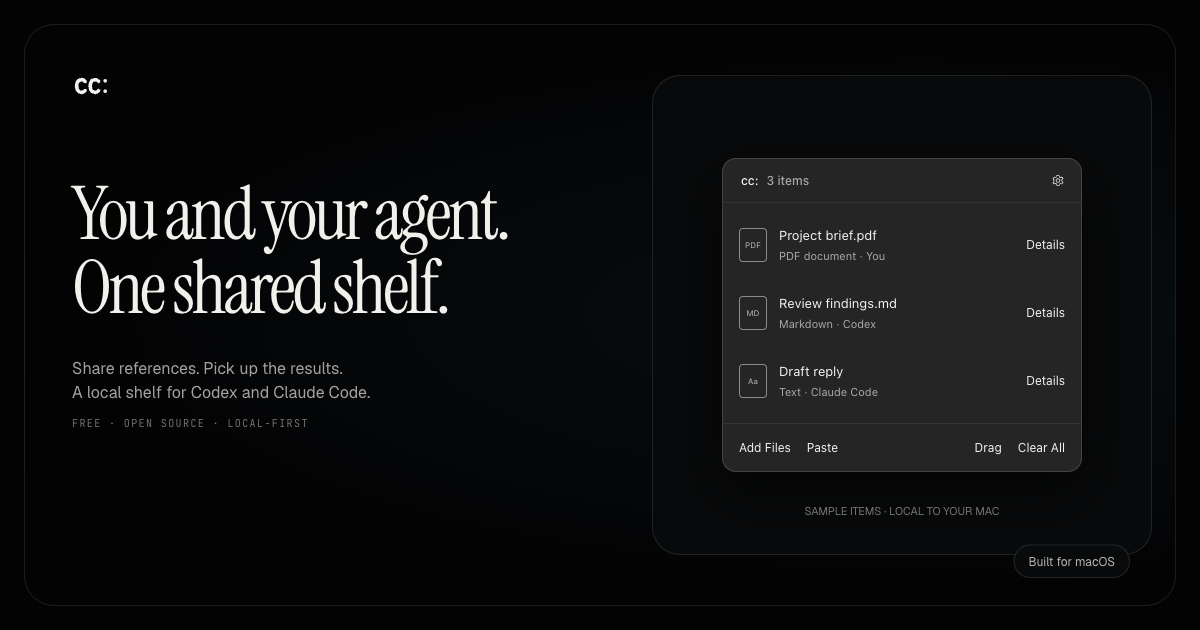
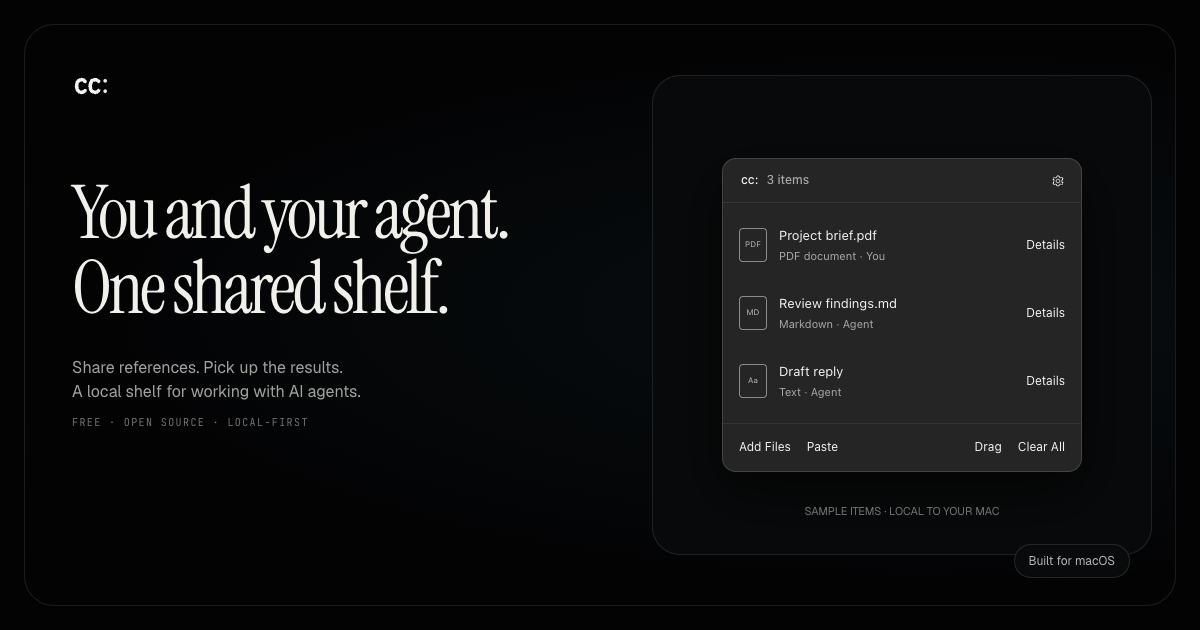
Keep social preview independent of agent names

diff --git a/site/media/cc-og.html b/site/media/cc-og.html
@@ -124,15 +124,15 @@
     <main class="frame">
       <div class="brand"><img src="../public/cc/cc-mark.svg" alt="cc:"></div>
       <h1>You and your agent.<br>One shared shelf.</h1>
-      <p class="description">Share references. Pick up the results.<br>A local shelf for Codex and Claude Code.</p>
+      <p class="description">Share references. Pick up the results.<br>A local shelf for working with AI agents.</p>
       <p class="meta">FREE · OPEN SOURCE · LOCAL-FIRST</p>
       <figure class="product">
         <div class="shelf" aria-label="cc: shelf with sample items">
           <header><strong>cc:</strong><small>3 items</small><div class="header-actions" aria-hidden="true"><span class="header-action"><svg viewBox="0 0 24 24" fill="none" stroke="currentColor" stroke-width="1.5" stroke-linecap="round" stroke-linejoin="round"><path d="M10 2h4l1 3 2 1 3-1 2 3-2 2v4l2 2-2 3-3-1-2 1-1 3h-4l-1-3-2-1-3 1-2-3 2-2v-4L2 8l2-3 3 1 2-1 1-3Z"/><circle cx="12" cy="12" r="3.5"/></svg></span></div></header>
           <ul>
             <li><span class="file">PDF</span><div><b>Project brief.pdf</b><small>PDF document · You</small></div><em>Details</em></li>
-            <li><span class="file">MD</span><div><b>Review findings.md</b><small>Markdown · Codex</small></div><em>Details</em></li>
-            <li><span class="file">Aa</span><div><b>Draft reply</b><small>Text · Claude Code</small></div><em>Details</em></li>
+            <li><span class="file">MD</span><div><b>Review findings.md</b><small>Markdown · Agent</small></div><em>Details</em></li>
+            <li><span class="file">Aa</span><div><b>Draft reply</b><small>Text · Agent</small></div><em>Details</em></li>
           </ul>
           <footer><span class="action">Add Files</span><span class="action">Paste</span><div class="footer-actions"><span class="action">Drag</span><span class="action">Clear All</span></div></footer>
         </div>

diff --git a/site/tests/rendered-html.test.ts b/site/tests/rendered-html.test.ts
@@ -1,4 +1,5 @@
 import assert from "node:assert/strict";
+import { createHash } from "node:crypto";
 import { test } from "bun:test";
 import { join } from "node:path";
 import { siteCopy } from "../src/copy.ts";
@@ -14,6 +15,9 @@ function withoutBreakHints(html: string) {
 test("renders the standalone cc: site at the root", async () => {
   const html = await Bun.file(join(distRoot, "index.html")).text();
   const text = withoutBreakHints(html);
+  const ogImage = await Bun.file(join(distRoot, "cc/cc-og.png")).arrayBuffer();
+  const ogHash = createHash("sha256").update(Buffer.from(ogImage)).digest("hex").slice(0, 12);
+  const ogURL = `https://cc.shigoto.dev/cc/cc-og.png?v=${ogHash}`;
 
   assert.match(html, /<html lang="en">/);
   assert.match(html, /<title>cc:<\/title>/);
@@ -43,10 +47,10 @@ test("renders the standalone cc: site at the root", async () => {
   assert.match(html, /cc-mark\.svg/);
   assert.match(html, /property="og:type" content="website"/);
   assert.match(html, /property="og:url" content="https:\/\/cc\.shigoto\.dev\/"/);
-  assert.match(html, /property="og:image" content="https:\/\/cc\.shigoto\.dev\/cc\/cc-og\.png\?v=0\.4\.4"/);
+  assert.ok(html.includes(`property="og:image" content="${ogURL}"`));
   assert.match(html, /property="og:image:width" content="1200"/);
   assert.match(html, /property="og:image:height" content="630"/);
-  assert.match(html, /name="twitter:image" content="https:\/\/cc\.shigoto\.dev\/cc\/cc-og\.png\?v=0\.4\.4"/);
+  assert.ok(html.includes(`name="twitter:image" content="${ogURL}"`));
   assert.match(html, /name="twitter:image:alt" content="cc:"/);
   assert.match(html, /rel="icon" href="\/cc\/cc-favicon\.svg" type="image\/svg\+xml"/);
   assert.match(html, /github\.com\/hayashiii-ghub\/cc/);

diff --git a/site/scripts/build.ts b/site/scripts/build.ts
@@ -1,4 +1,6 @@
 import { cp, mkdir, mkdtemp, rename, rm } from "node:fs/promises";
+import { readFileSync } from "node:fs";
+import { createHash } from "node:crypto";
 import { dirname, join, relative, sep } from "node:path";
 import { fileURLToPath } from "node:url";
 import { siteCopy, type SiteLanguage } from "../src/copy.ts";
@@ -7,7 +9,8 @@ import { escapeHtml, renderPage } from "../src/render.ts";
 export const siteRoot = dirname(dirname(fileURLToPath(import.meta.url)));
 export const distRoot = join(siteRoot, "dist");
 const siteURL = "https://cc.shigoto.dev";
-const imageURL = `${siteURL}/cc/cc-og.png?v=0.4.4`;
+const imageHash = createHash("sha256").update(readFileSync(join(siteRoot, "public/cc/cc-og.png"))).digest("hex").slice(0, 12);
+const imageURL = `${siteURL}/cc/cc-og.png?v=${imageHash}`;
 
 type Assets = { scripts: string[]; styles: string[] };
 
